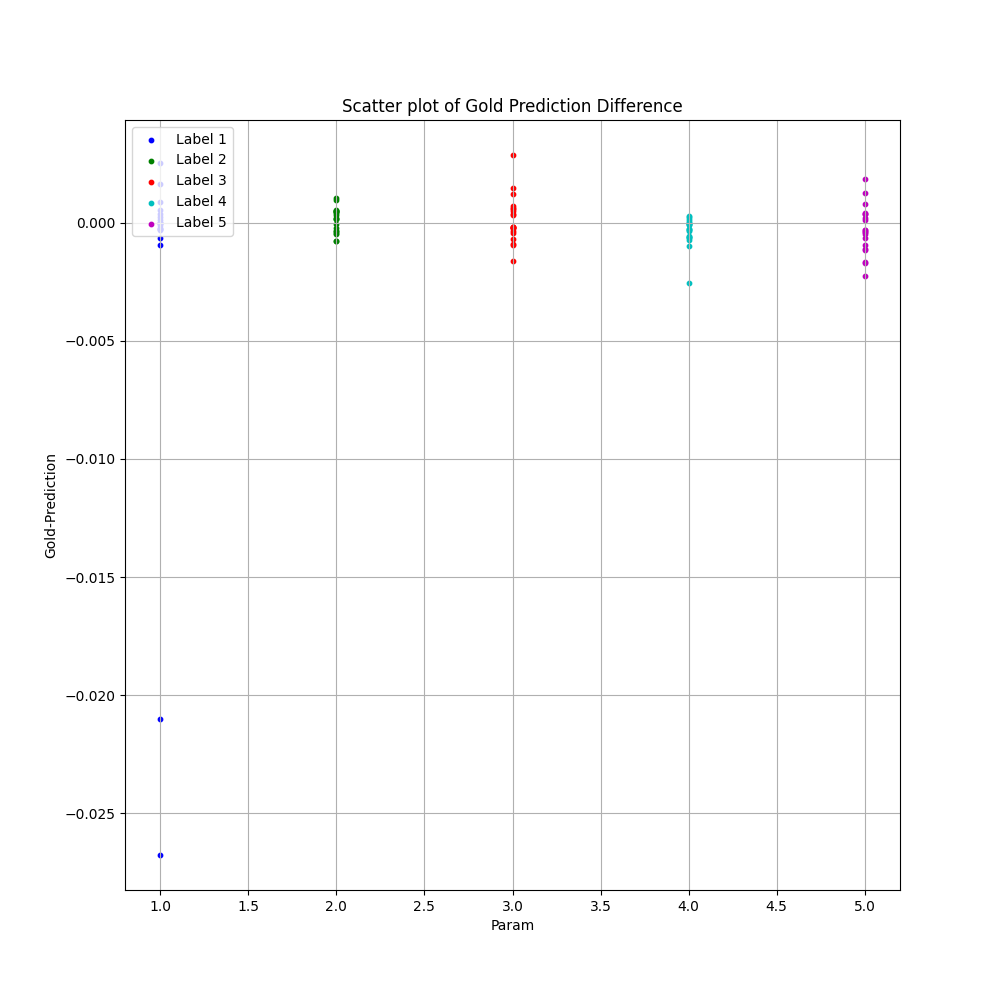
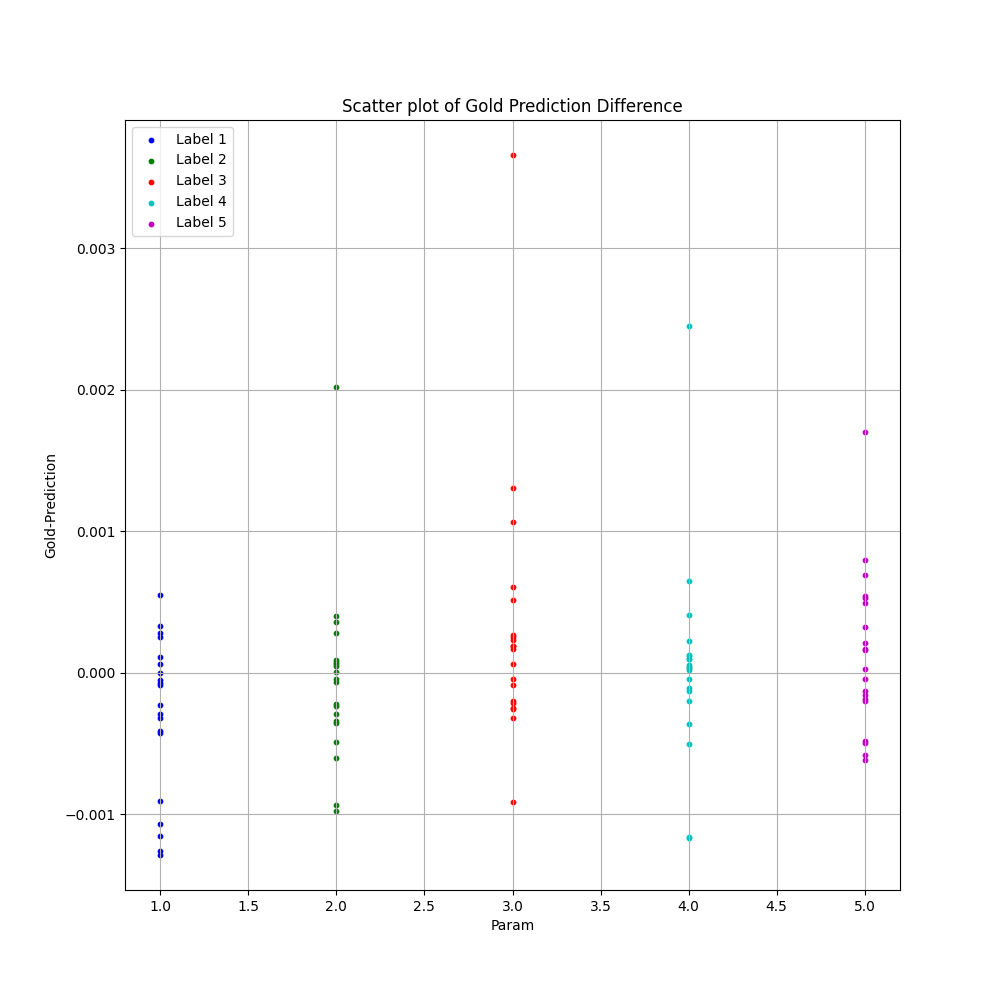
reran 450 epochs with correct last_lr

diff --git a/aufgabe1/final1.py b/aufgabe1/final1.py
@@ -27,7 +27,7 @@ batch_size = 128
 test_size = 1. / 3
 
 init_lr = 0.001
-last_lr = 0.00005
+last_lr = 0.000005
 gamma = np.power((last_lr / init_lr), (1 / epochs))  # Gamma wird so gewählt dass init -> last in Trainingszeit
 
 
@@ -197,5 +197,5 @@ def plotte_krasse_sachen(losses, model, test_input, gold):
 
 
 train_dl, test_dl, tin, tout = prepare_data(1)
-#train_l, test_l = train(train_dl, test_dl)
+train_l, test_l = train(train_dl, test_dl)
 plotte_krasse_sachen(np.load(f'losses/losses_{epochs}.npz'),torch.load(f'models/model_save_{epochs}.tar',map_location = torch.device('cpu')), tin, tout)
